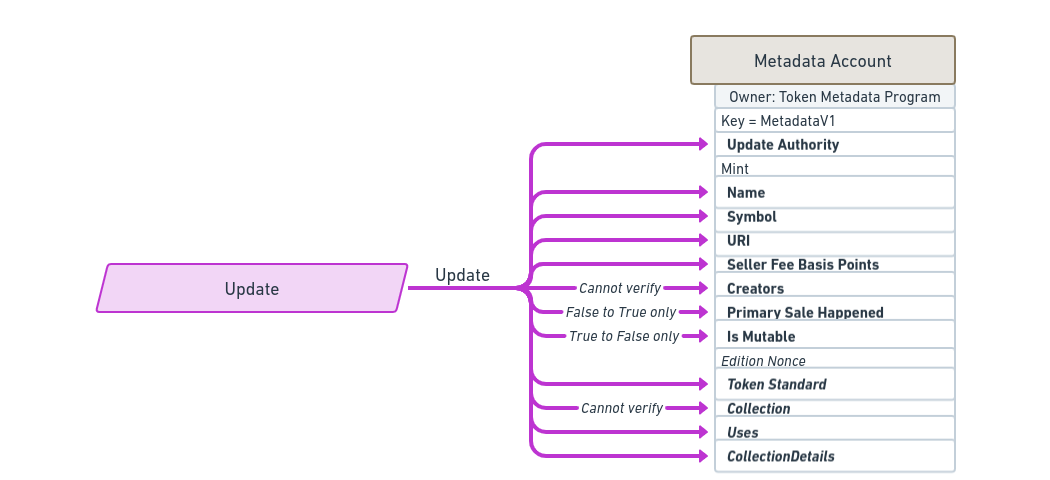
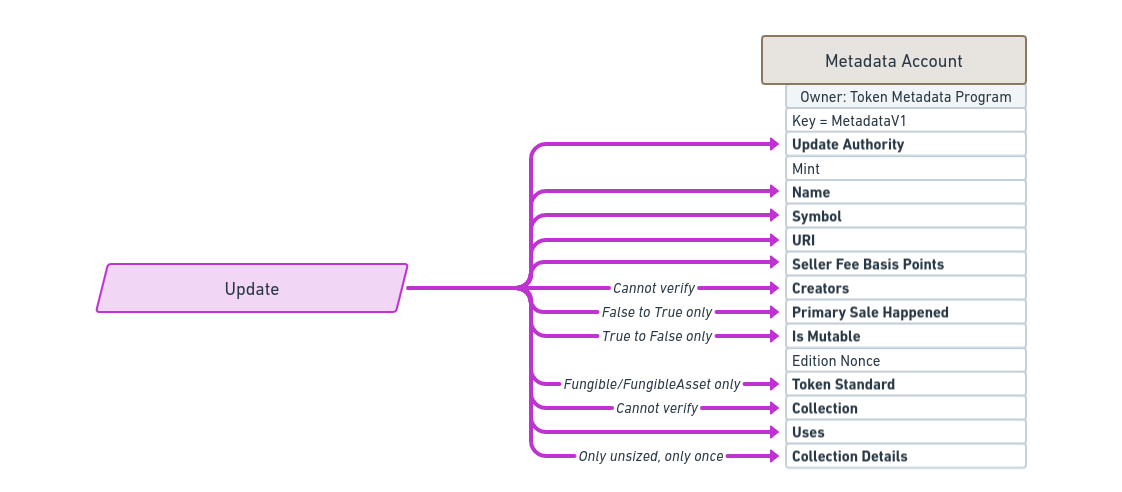
Update diagram and add section on specific Update field limitations
Also update for DataItem delegate.

Changed region(s): [[0.061, 0.0625, 0.9143, 1.0]]

diff --git a/docs/01-programs/01-token-metadata/03-instructions.md b/docs/01-programs/01-token-metadata/03-instructions.md
@@ -399,22 +399,28 @@ The token holder is currently supported as an authority type that can be passed 
 
 | Authority type                                            | Authorized `UpdateArgs` fields |
 | --------------------------------------------------------- | ------------------------------ |
-| Item Update Authority                                     | All fields for self (includes `uses` and `collection_details`, which cannot be changed by delegates) |
-| `MetadataDelegateRole::Authority`                         | `new_update_authority`, `primary_sale_happened`, `is_mutable`, `token_standard` for self |
-| `MetadataDelegateRole::Data`                              | `data` for self |
-| `MetadataDelegateRole::Collection`                        | `collection` for self and any children assets if this is a collection parent |
+| Item Update Authority                                     | All fields for self only (includes `uses` and `collection_details`, which cannot be changed by delegates) |
+| `MetadataDelegateRole::AuthorityItem`                     | `new_update_authority`, `primary_sale_happened`, `is_mutable`, `token_standard` for self only |
+| `MetadataDelegateRole::DataItem`                          | `data` for self only |
+| `MetadataDelegateRole::Data    `                          | `data` for self and any children assets if this is a collection parent |
 | `MetadataDelegateRole::CollectionItem`                    | `collection` for self only |
-| `MetadataDelegateRole::ProgrammableConfig`                | `rule_set` for self and any children assets if this is a collection parent |
+| `MetadataDelegateRole::Collection`                        | `collection` for self and any children assets if this is a collection parent |
 | `MetadataDelegateRole::ProgrammableConfigItem`            | `rule_set` for self only |
+| `MetadataDelegateRole::ProgrammableConfig`                | `rule_set` for self and any children assets if this is a collection parent |
 | Token holder                                              | Not currently supported |
 | All token delegates (`TokenDelegateRole::Transfer`, etc.) | None |
 
-#### Token standard
+#### Specific limitations
+- Creators and collections cannot be set to verified by this instruction if they already in the asset's metadata as unverified.  Conversely, this instruction cannot unverify creators or collections if they are already in the asset's metadata as verified.
+- `primary_sale_happened` can only be switched from `False` to `True` and cannot be switched back.
+- `is_mutable` can only be switched from `True` to `False` and cannot be switched back.
+- If the token standard is inferred to be or already set to `Fungible` or `FungibleAsset`, the item update authority or the `MetadataDelegateRole::Authority` can freely switch the asset between those two standard types (see below for more on token standard inference).
+- `collection_details` can only be used to set size on an unsized collection, and only once.  Once the collection size is set it is managed by the token-metadata program when items are added/removed from the collection using other instructions (i.e., `Verify`, `Burn`).
+
+#### Token standard inference
 If the asset's token standard is unknown (because it was created with legacy instructions that did not set it), then this handler will infer and set the appropriate standard, based on whether the asset has an edition account as the mint authority, the type of the edition account, the current supply, and decimals.
 
 If the asset's mint authority is a master edition account, but the master edition account was not provided to the `Update` handler, the handler will detect this and fail rather than erroneously inferring the asset is a `FungibleAsset`.
-
-If the token standard is inferred to be or already `Fungible` or `FungibleAsset`, the item update authority or the `MetadataDelegateRole::Authority` can freely switch the asset between those two standard types.
 
 #### Specifying optional accounts
 - The `delegate_record` optional account is only required if using a delegate.
